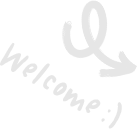
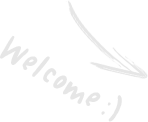
hero fix

diff --git a/style.css b/style.css
@@ -339,6 +339,58 @@ body {
     transform: rotate(-5deg);
 }
 
+/* =========================================
+   LAPTOP & SMALL SCREEN FIX (13" MacBooks, etc.)
+   ========================================= */
+@media (max-width: 1440px), (max-height: 850px) {
+    /* 1. Prevent Flexbox Squishing by allowing natural height */
+    .hero-3d-wrapper {
+        height: auto;
+        min-height: 100vh;
+        padding: 120px 0 40px;
+    }
+    .hero-text-content, .scene-3d, .hero-cta-wrapper {
+        flex-shrink: 0; /* CRITICAL: Stops the carousel from overlapping the text */
+    }
+
+    /* 2. Scale down the massive headline safely */
+    .hero-3d-headline {
+        font-size: 4rem; /* Scaled down proportionally from 5.5rem */
+        margin-bottom: 20px;
+    }
+
+    /* 3. Re-anchor the Scribbles to match the new, smaller text width */
+    .scribble.cross { width: 45px; top: -15px; margin-left: -230px; }
+    .scribble.crown { width: 70px; top: -60px; margin-left: 130px; }
+    .scribble.star { width: 35px; top: 40px; margin-left: -130px; }
+    .scribble.top-arrow { width: 120px; top: 10px; margin-left: 250px; }
+    .scribble.bottom-arrow { width: 100px; top: -20px; margin-left: -180px; }
+
+    /* 4. Adjust the Animated Underline to hug the smaller letters */
+    .highlight-wrapper::after {
+        height: 45px;
+        bottom: -15px;
+    }
+    
+    /* 5. Scale the 3D scene down slightly so it fits inside shorter screens */
+    .scene-3d {
+        height: 360px; 
+    }
+    .carousel-3d {
+        height: 280px;
+    }
+    .carousel-card {
+        width: 180px;
+        height: 280px;
+        /* margin MUST be exactly negative half of width/height to center 3D objects */
+        margin-left: -90px;
+        margin-top: -140px;
+    }
+    .hero-cta-wrapper {
+        margin-top: 20px;
+    }
+}
+
 /* --- MOBILE SCRIBBLE ADJUSTMENTS --- */
 @media (max-width: 768px) {
     /* Hide the large side arrows on mobile to prevent horizontal scrolling */
@@ -4314,4 +4366,35 @@ body:not([data-mode="all"]) .top-signature {
     opacity: 1 !important;
     visibility: visible !important;
     pointer-events: auto !important;
+}
+
+/* =========================================
+   MOBILE: BYPASS 3D HERO COMPLETELY
+   ========================================= */
+@media (max-width: 768px) {
+    /* 1. Hide the entire 3D Hero Wrapper and Floating Signature */
+    #hero-3d,
+    .top-signature {
+        display: none !important;
+    }
+
+    /* 2. Instantly unlock the page scroll (bypasses the desktop scroll-lock) */
+    html, body {
+        height: auto !important;
+        overflow-y: visible !important;
+        overflow-x: hidden !important;
+    }
+
+    /* 3. Instantly reveal the main navigation header and pill menu */
+    header, 
+    .show-more-wrap {
+        opacity: 1 !important;
+        pointer-events: auto !important;
+        visibility: visible !important;
+    }
+    
+    /* 4. Add a little breathing room at the top so the gallery isn't flushed against the menu */
+    #gallery {
+        margin-top: 20px !important;
+    }
 }